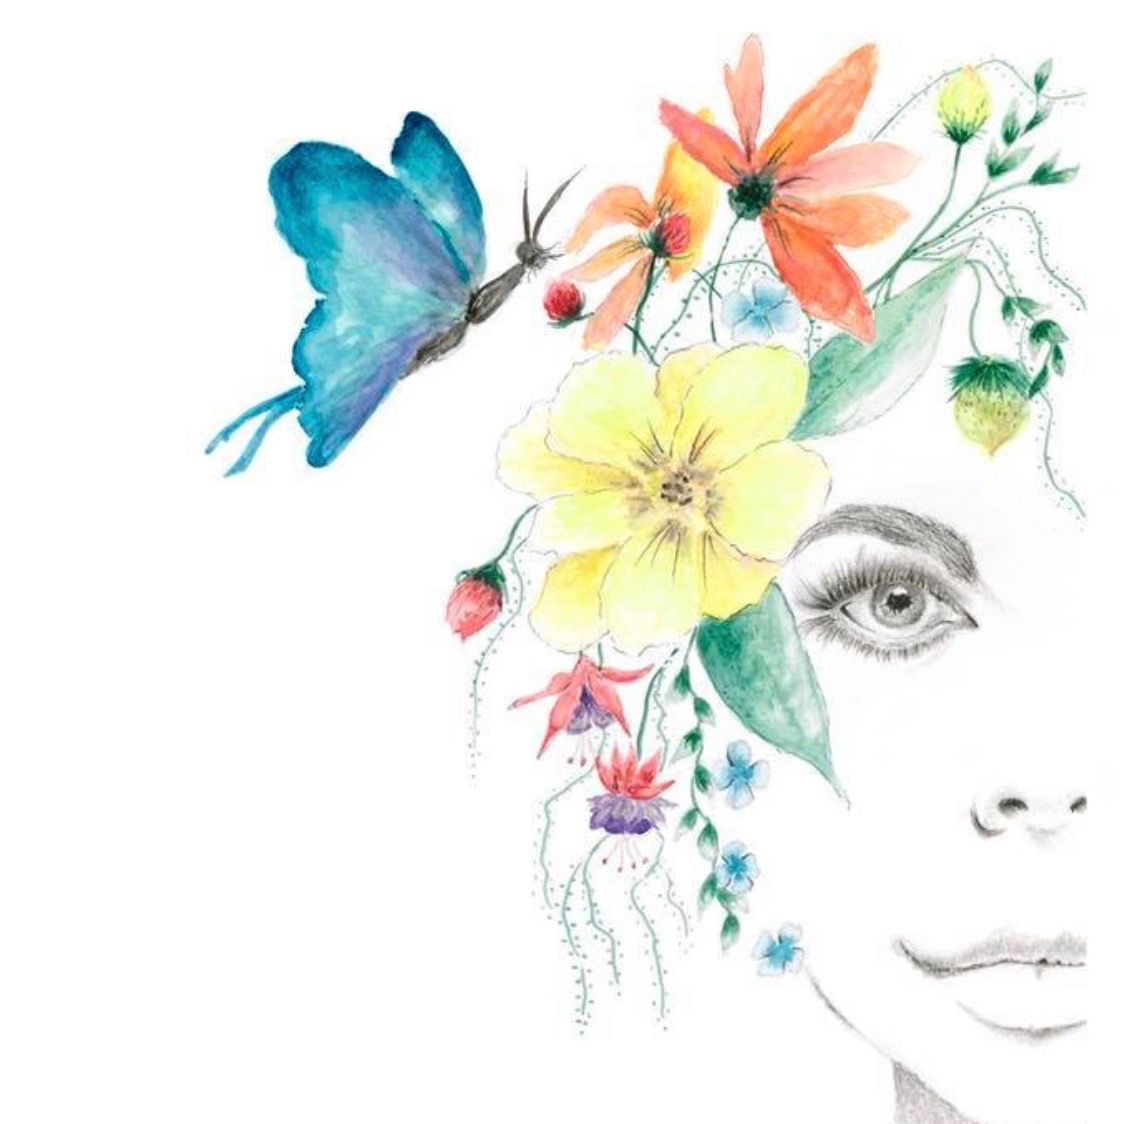
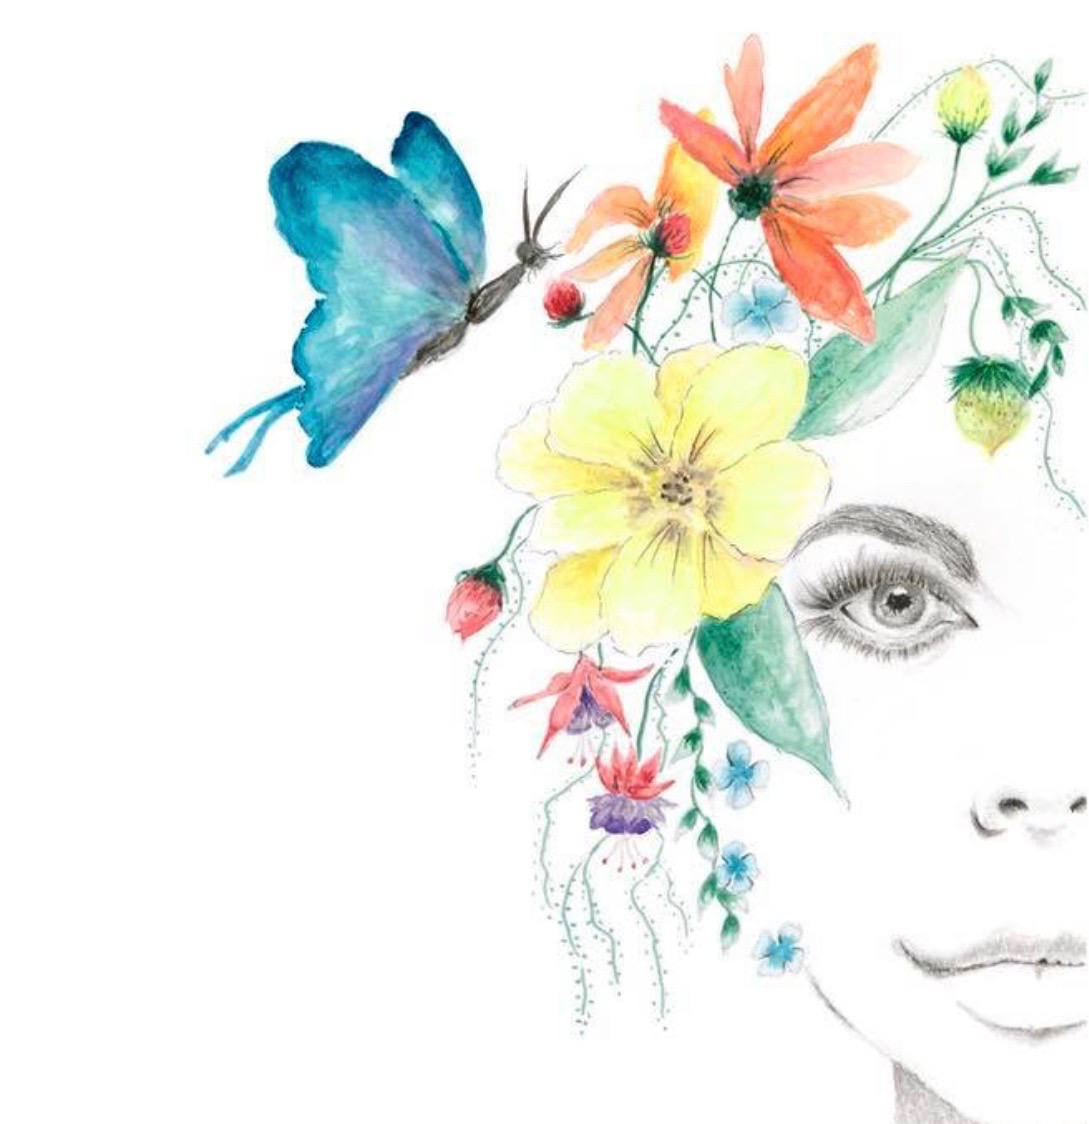
Change img to background image

diff --git a/src/components/Header/index.js b/src/components/Header/index.js
@@ -1,22 +1,24 @@
 import React from 'react'
 
-import hero from 'images/hero.png';
-import downChevron from 'svg/down-chevron.svg';
+import hero from 'images/hero.png'
+import downChevron from 'svg/down-chevron.svg'
 
 import './Header.css'
 
 export const Header = React.forwardRef(({ onChevronClick }, ref) => {
   return (
     <header className="header-sizing-container">
-        <div className="header-contents">
-          <div className="header-wrapper">
-            <h1 ref={ref}>Lettes Art</h1>
-          </div>
-          <img src={hero} />
-          <button className="next-section-button" onClick={onChevronClick}>
-            <img src={downChevron} />
-          </button>
+      <div
+        className="header-contents"
+        style={{ backgroundImage: `url(${hero})` }}
+      >
+        <div className="header-wrapper">
+          <h1 ref={ref}>Lettes Art</h1>
         </div>
+        <button className="next-section-button" onClick={onChevronClick}>
+          <img src={downChevron} />
+        </button>
+      </div>
     </header>
   )
-});
+})
